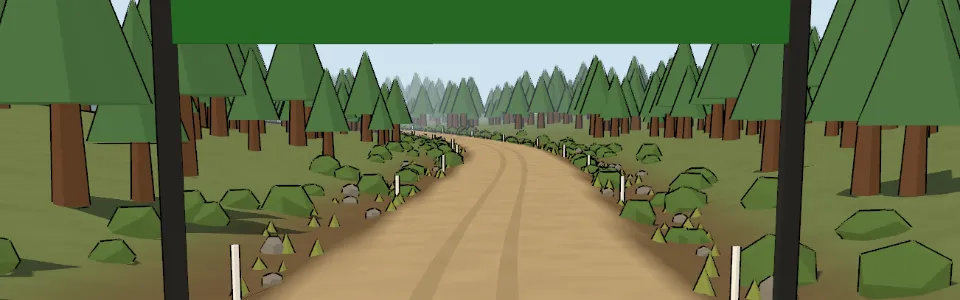
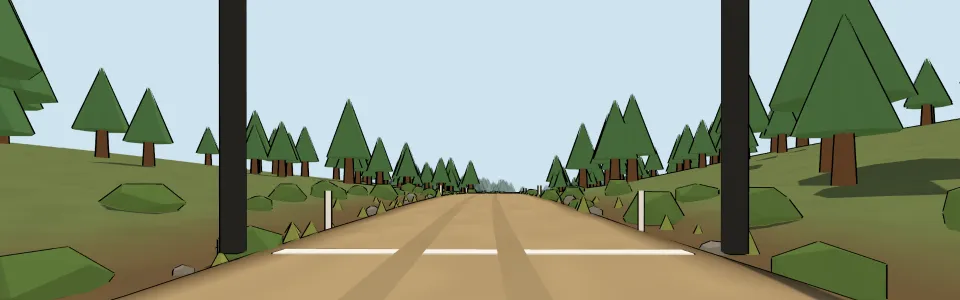
feat: show each championship with a view from its real stage
The championship pictures were views of the old fictional stages, and
class 2 and Forsrallyt borrowed class 1's. All seven now show the hood
camera's view at the start of one of their own stages, in clear weather.

diff --git a/src/career/menus.ts b/src/career/menus.ts
@@ -7,6 +7,10 @@ import { applause, coins, showMenu } from "../menu";
 import skogsrallytImg from "../assets/champ-skogsrallyt.webp";
 import myrkullarallytImg from "../assets/champ-myrkullarallyt.webp";
 import vinterrallytImg from "../assets/champ-vinterrallyt.webp";
+import forsrallytImg from "../assets/champ-forsrallyt.webp";
+import tallmoklassikernImg from "../assets/champ-tallmoklassikern.webp";
+import ljunghedsrallytImg from "../assets/champ-ljunghedsrallyt.webp";
+import israllytImg from "../assets/champ-israllyt.webp";
 import { CARS, type CarModel } from "../physics/params";
 import { STAGES, type StageDef } from "../physics/stage";
 import { pickStage, stagePreviewHtml } from "../stageMenu";
@@ -245,16 +249,15 @@ export async function careerMenu(
   }
 }
 
-/** En vy från en etapp i varje mästerskap, tagen i spelet. */
+/** Vyn från motorhuven vid starten av en etapp i varje mästerskap, tagen i spelet i uppehållsväder. */
 const CHAMPIONSHIP_IMAGES: Record<string, string> = {
   skogsrallyt: skogsrallytImg,
   myrkullarallyt: myrkullarallytImg,
   vinterrallyt: vinterrallytImg,
-  // shortcut: klass 2 och Forsrallyt lånar bilder från klass 1-mästerskapen; ta egna om de behövs.
-  tallmoklassikern: skogsrallytImg,
-  ljunghedsrallyt: myrkullarallytImg,
-  israllyt: vinterrallytImg,
-  forsrallyt: myrkullarallytImg,
+  forsrallyt: forsrallytImg,
+  tallmoklassikern: tallmoklassikernImg,
+  ljunghedsrallyt: ljunghedsrallytImg,
+  israllyt: israllytImg,
 };
 
 /** Mästerskapen: först klassen, sedan mästerskapet i den. */
